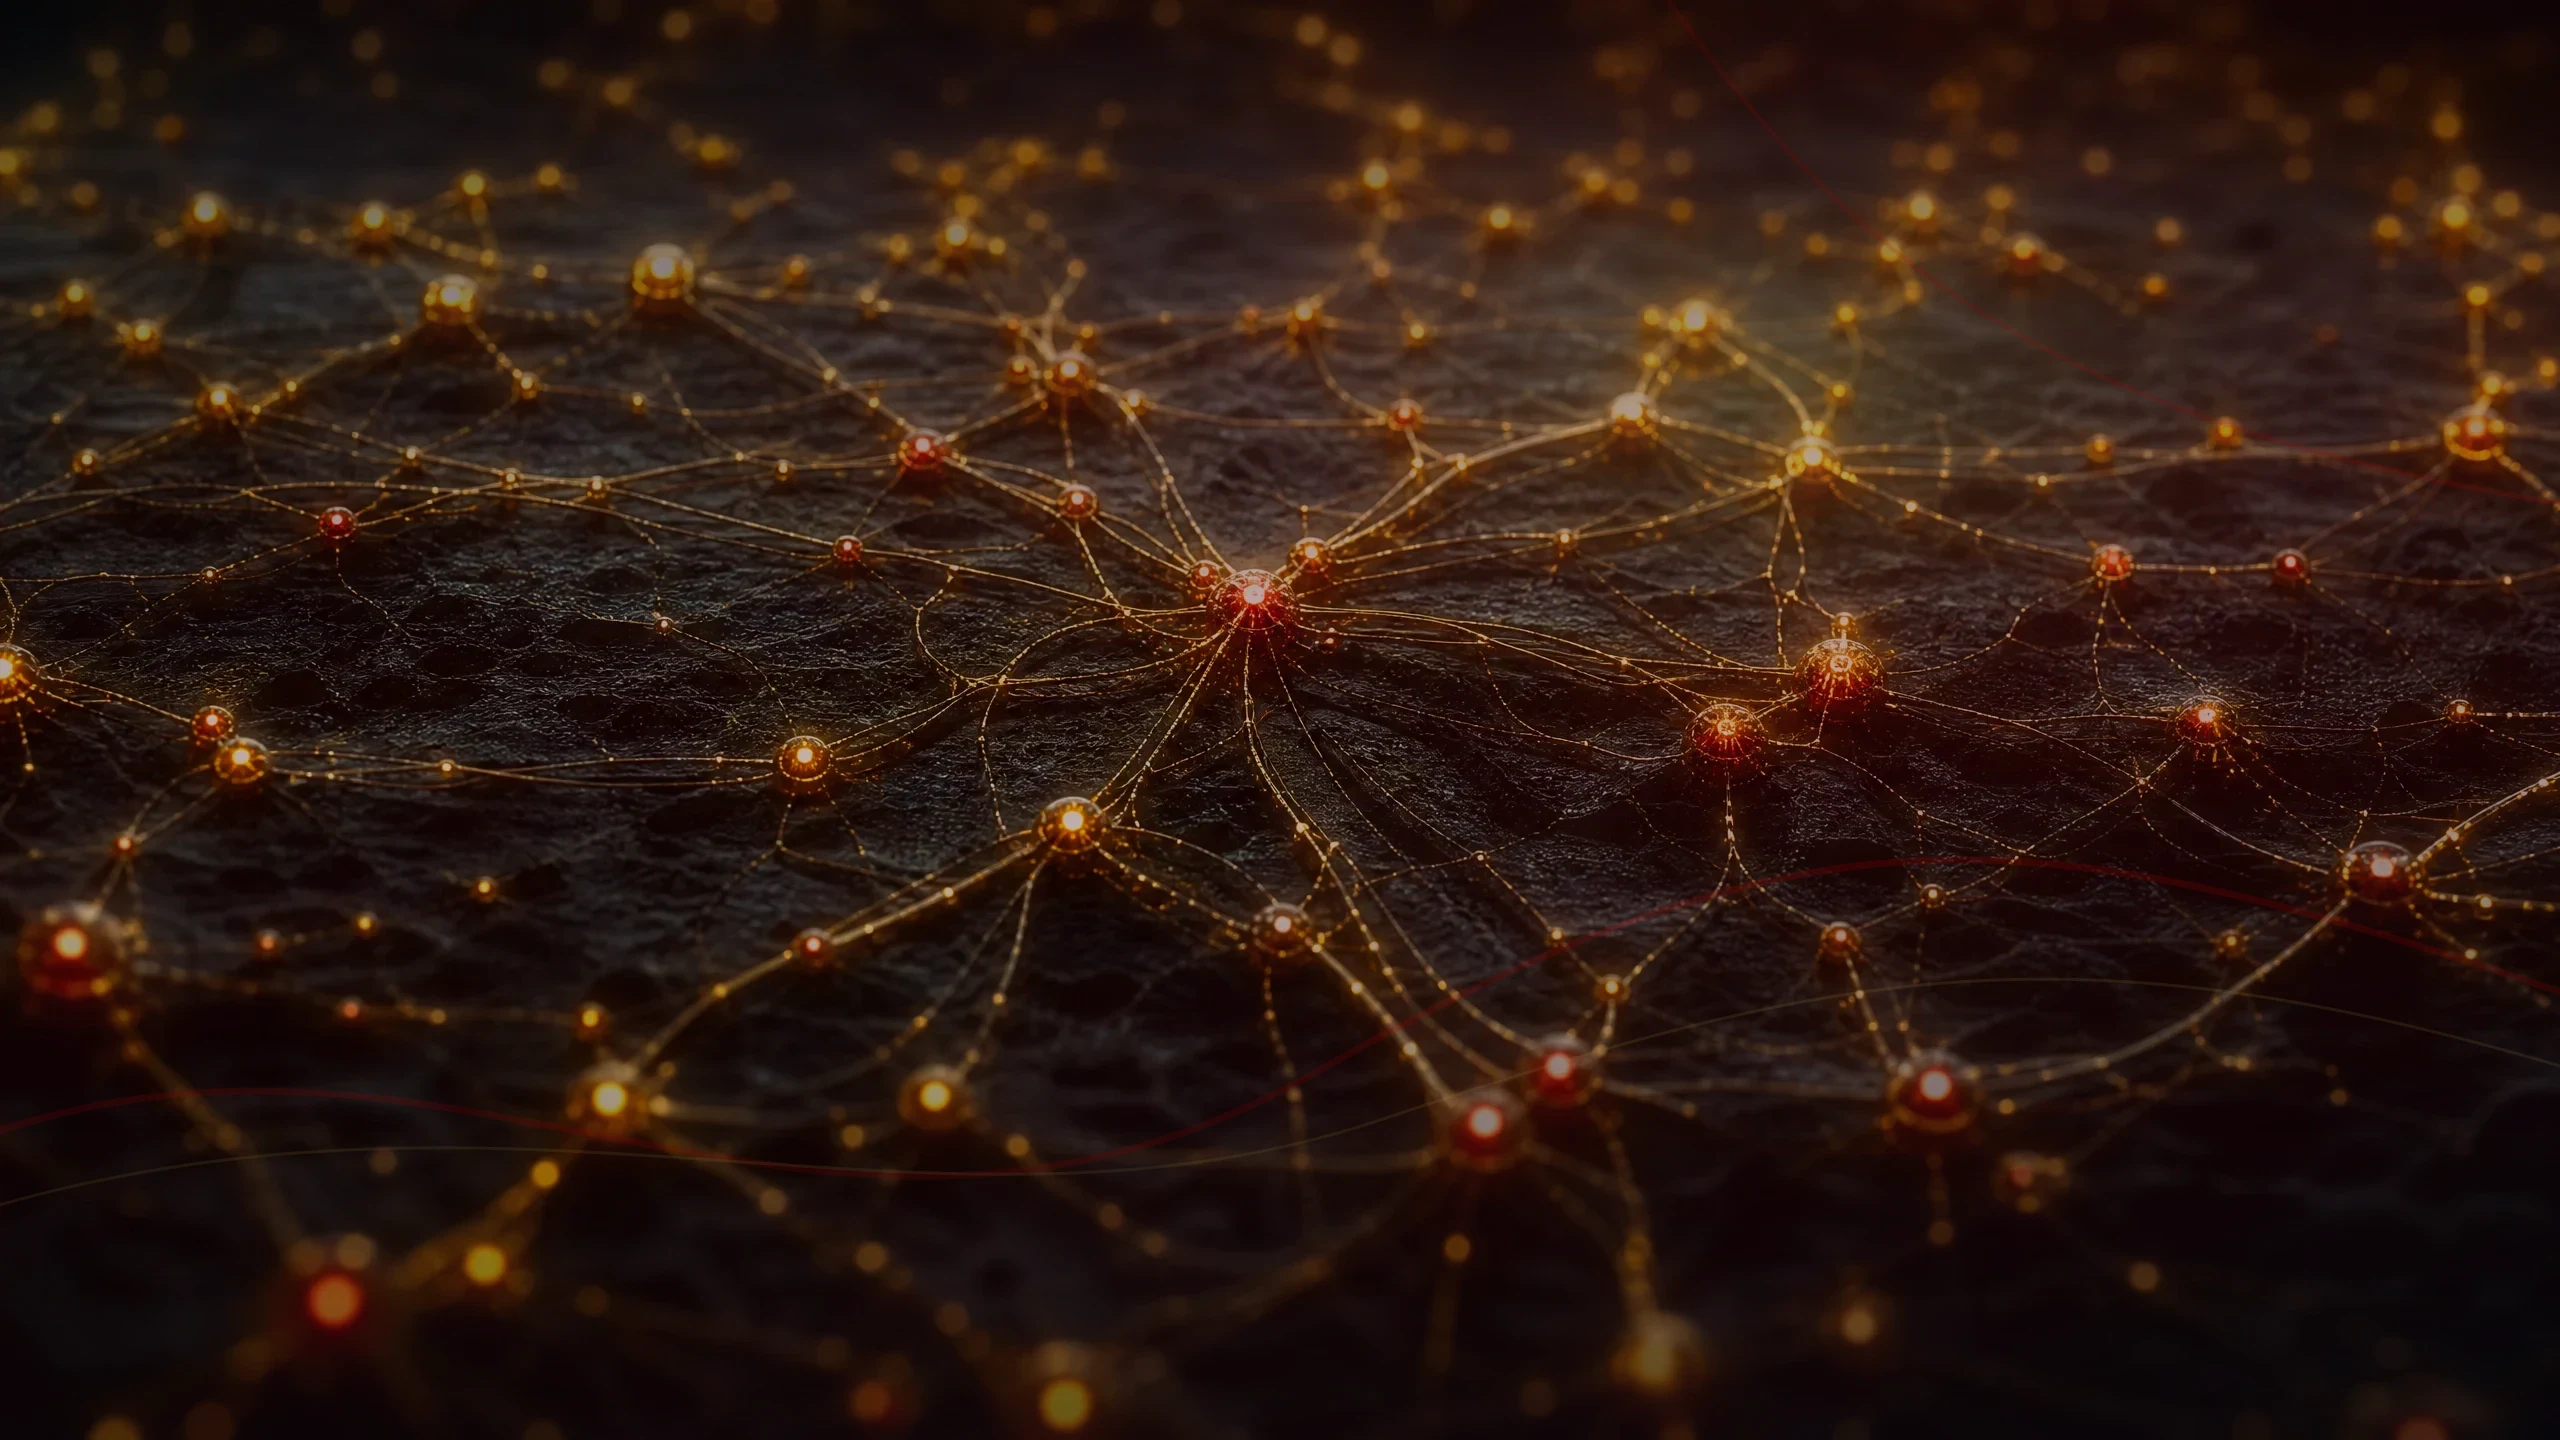
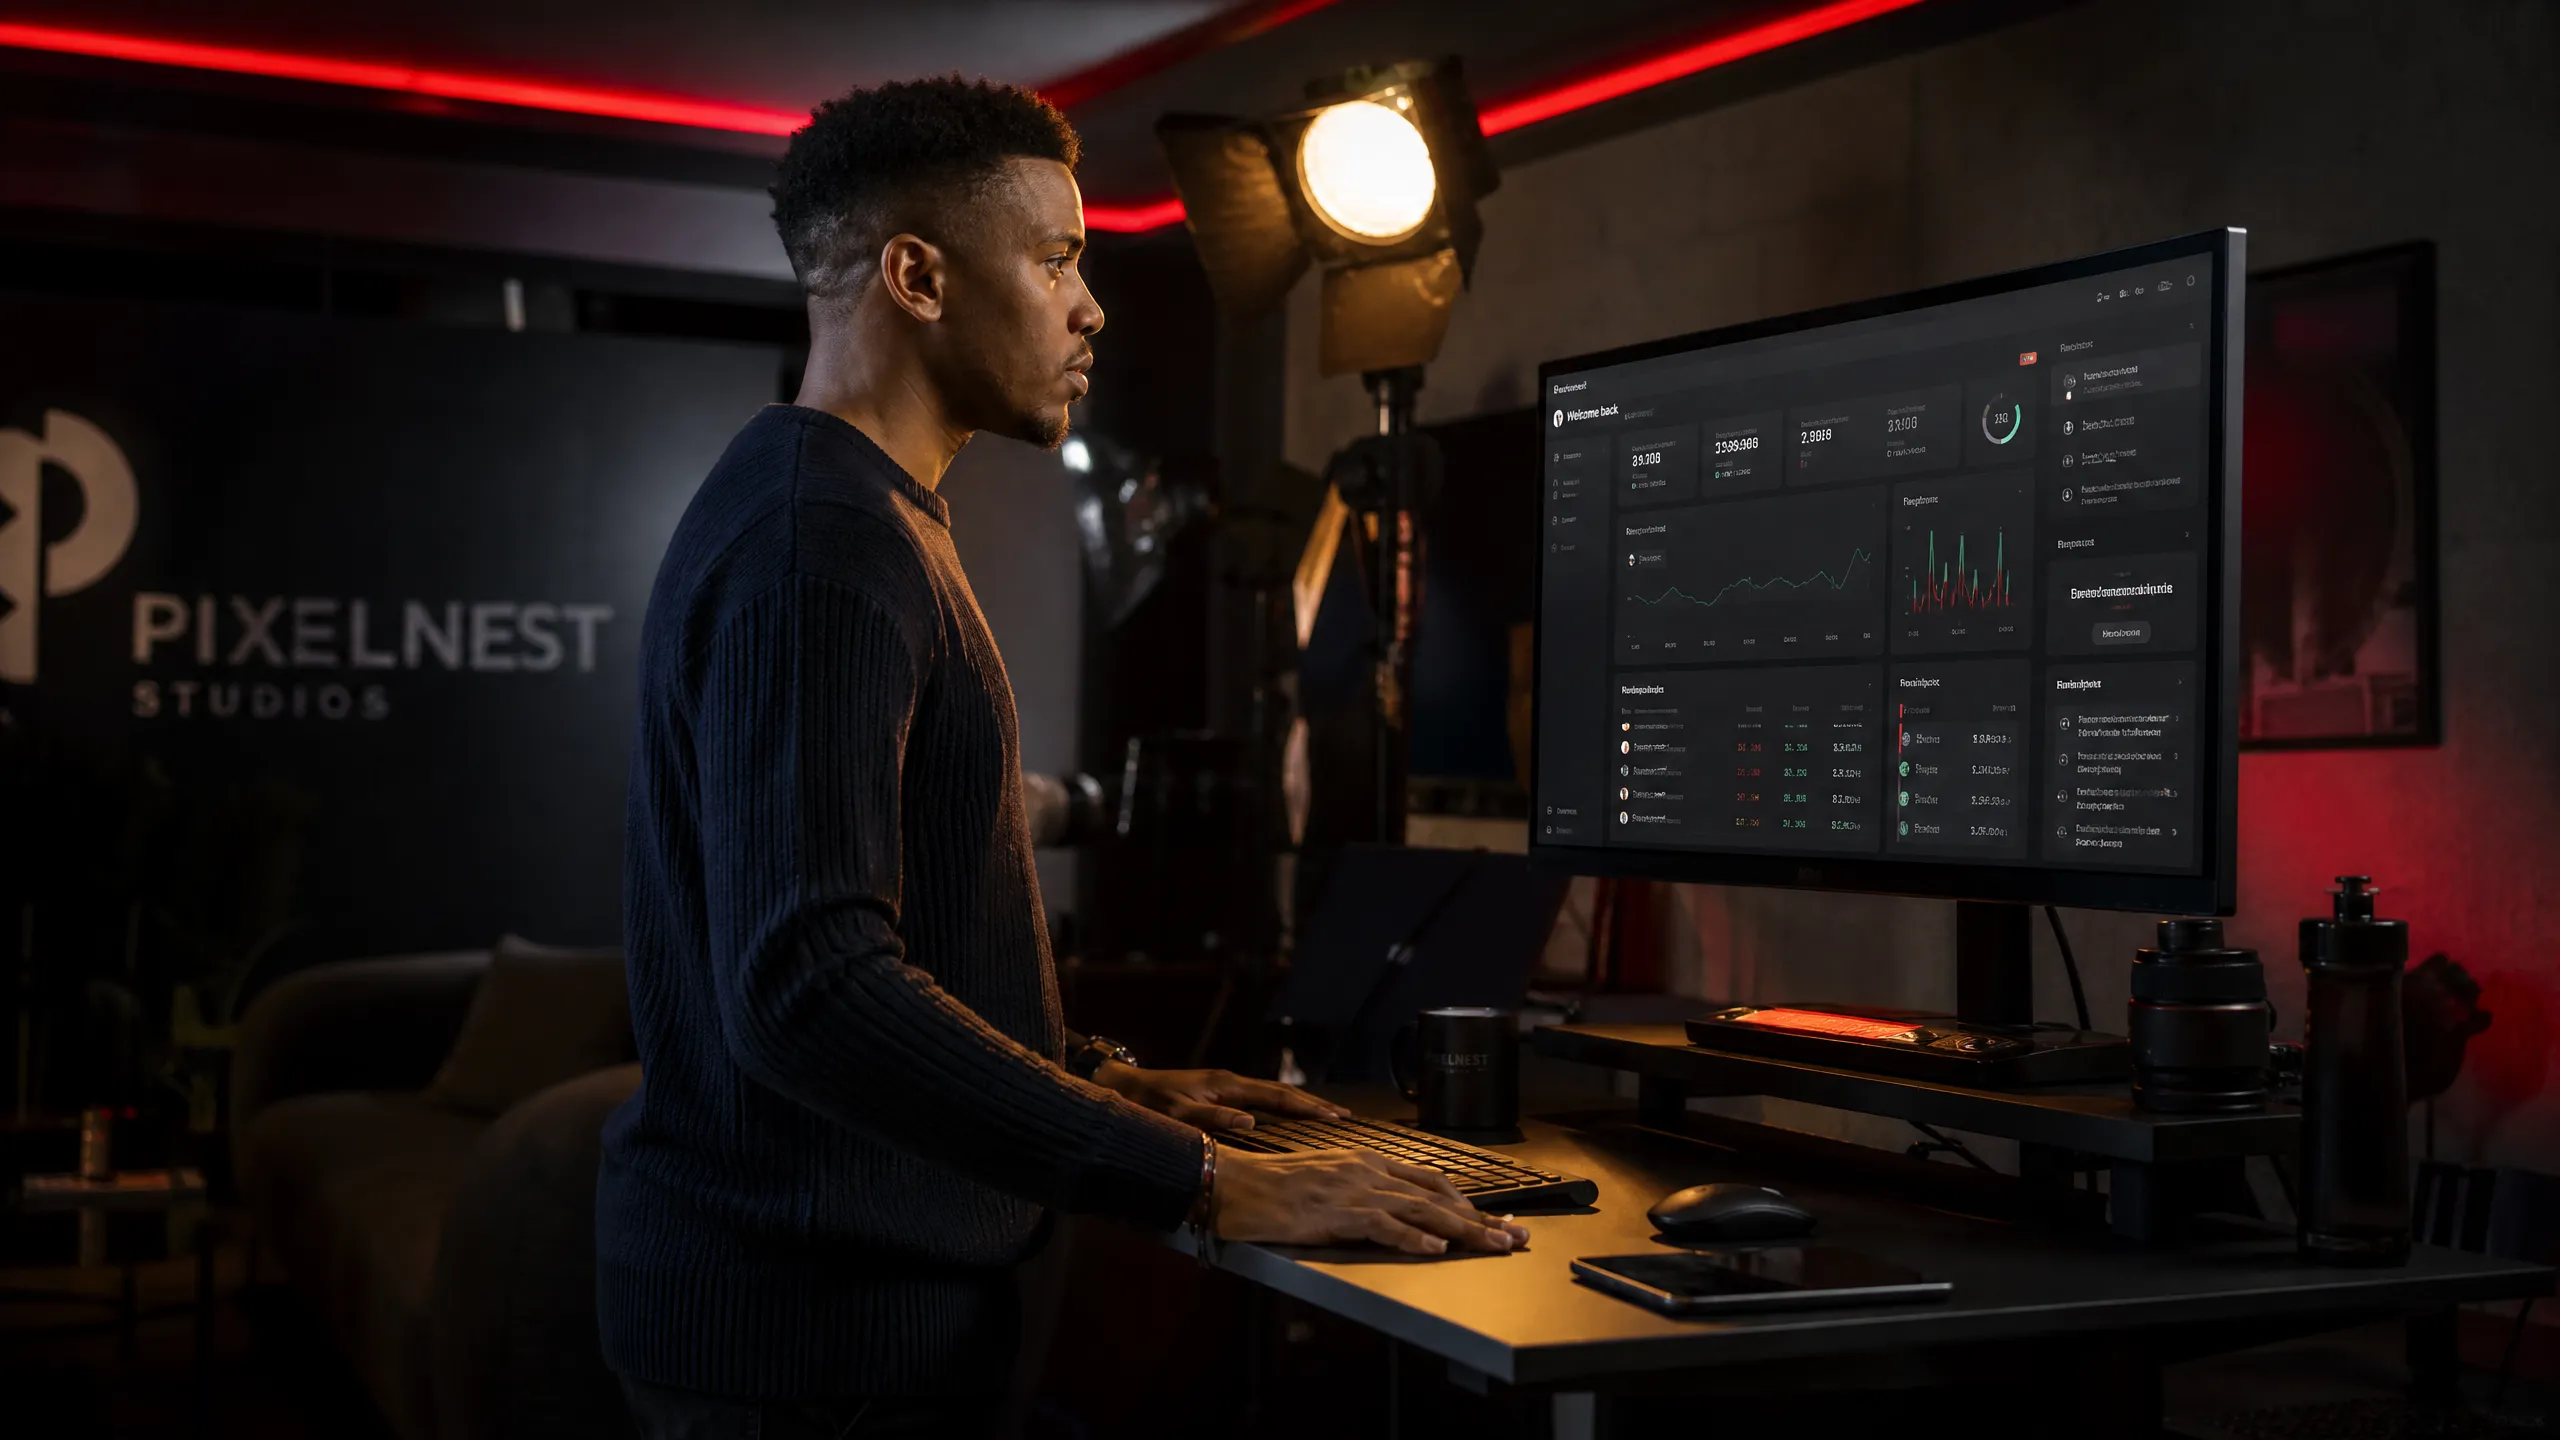
Replace abstract AI visuals with dashboard imagery

diff --git a/src/app/visibility/seo/page.tsx b/src/app/visibility/seo/page.tsx
@@ -21,8 +21,8 @@ export default function Page() {
         eyebrow="7 · Visibility Pillar"
         title="Found by search engines today. Found by AI engines tomorrow. Both, deliberately."
         subtitle="Traditional SEO and Generative Engine Optimisation (AI SEO) are no longer alternatives. They are two halves of the same discovery surface."
-        imageSrc="/images/ai/v3/visibility/seo-hero.webp"
-        imageAlt="Radial knowledge graph or network visualization in gold light"
+        imageSrc="/images/ai/visibility-seo/technical-audit-screen.webp"
+        imageAlt="Photorealistic SEO and AI search audit dashboard on a professional monitor"
       />
 
       <FilmstripDivider />
@@ -56,9 +56,9 @@ export default function Page() {
           }
           right={
             <ImagePlaceholder
-              src="/images/ai/v3/visibility/seo-hero.webp"
-              alt="Traditional SEO"
-              brief="Google search results macro on a professional monitor in a cinematic office setting, warm gold and deep red lighting, photorealistic, textless."
+              src="/images/ai/visibility-seo/content-strategy-desk.webp"
+              alt="Traditional SEO analytics dashboard"
+              brief="Photorealistic search visibility dashboard on a laptop in a cinematic strategy office, warm red and gold lighting."
               orientation="landscape"
             />
           }
@@ -76,9 +76,9 @@ export default function Page() {
                 <Reveal>
                   <div className="mt-10">
                     <ImagePlaceholder
-                      src="/images/ai/v3/visibility/seo-hero.webp"
-                      alt="SEO strategy and implementation"
-                      brief="SEO strategy and implementation"
+                      src="/images/ai/visibility-seo/technical-audit-screen.webp"
+                      alt="SEO technical audit dashboard"
+                      brief="Photorealistic technical SEO audit dashboard on a large monitor with status indicators and performance metrics."
                       orientation="landscape"
                     />
                   </div>
@@ -122,9 +122,9 @@ export default function Page() {
           }
           right={
             <ImagePlaceholder
-              src="/images/ai/v3/growth/agentic-ai-hero.webp"
-              alt="AI SEO"
-              brief="A chatbot interface or AI assistant on a high-end screen in a cinematic setting, warm gold and deep red tones, photorealistic, textless."
+              src="/images/ai/smart-tools/tools-hero-professional.webp"
+              alt="AI SEO operations dashboard"
+              brief="Photorealistic AI operations dashboard on a computer screen, showing search intelligence, content workflow metrics, and campaign status."
               orientation="landscape"
             />
           }

diff --git a/src/app/page.tsx b/src/app/page.tsx
@@ -199,9 +199,9 @@ export default async function HomePage() {
             <Link href="/visibility/calendar" className="group space-y-4">
               <div className="aspect-[4/5] overflow-hidden relative">
                 <ImagePlaceholder
-                  src="/images/ai/v3/visibility/calendar-hero.webp"
+                  src="/images/ai/visibility-calendar/filming-schedule-monitor.webp"
                   alt="Visibility"
-                  brief="Abstract four-phase timeline in gold light"
+                  brief="Photorealistic 12-month strategy timeline dashboard on a professional monitor"
                   orientation="landscape"
                   className="group-hover:scale-105 transition-transform duration-700"
                 />
@@ -213,9 +213,9 @@ export default async function HomePage() {
             <Link href="/growth/agentic-ai" className="group space-y-4">
               <div className="aspect-[4/5] overflow-hidden relative">
                 <ImagePlaceholder
-                  src="/images/ai/v3/growth/agentic-ai-hero.webp"
+                  src="/images/ai/smart-tools/tools-hero-professional.webp"
                   alt="Growth"
-                  brief="Abstract orbital AI system"
+                  brief="Photorealistic AI workflow dashboard on a professional computer screen"
                   orientation="landscape"
                   className="group-hover:scale-105 transition-transform duration-700"
                 />
@@ -245,9 +245,9 @@ export default async function HomePage() {
       <section className="relative py-32 overflow-hidden">
         <div className="absolute inset-0 z-0">
           <ImagePlaceholder
-            src="/images/ai/safa-ai-hero.png"
-              alt="SA Film Interns Talent Portal"
-            brief="Young Black creative professional using a laptop"
+            src="/images/ai/smart-tools/profile-cards-screen.webp"
+            alt="SA Film Interns Talent Portal"
+            brief="Photorealistic talent portal dashboard with profile cards on a professional computer monitor"
             orientation="video"
             className="w-full h-full opacity-40"
           />

diff --git a/src/app/growth/agentic-ai/page.tsx b/src/app/growth/agentic-ai/page.tsx
@@ -21,8 +21,8 @@ export default function Page() {
         eyebrow="6 · Growth Pillar"
         title="Not an aspiration. A set of concrete, running, weekly automated workflows."
         subtitle="Five autonomous agents that operate without human initiation, turning the Academy's capacity constraint into its largest competitive advantage."
-        imageSrc="/images/ai/v3/growth/agentic-ai-hero.webp"
-        imageAlt="Abstract orbital AI system or neural network in gold and blue"
+        imageSrc="/images/ai/smart-tools/tools-hero-professional.webp"
+        imageAlt="Photorealistic AI workflow dashboard on a professional computer screen"
       />
 
       <FilmstripDivider />
@@ -51,9 +51,9 @@ export default function Page() {
                 <Reveal>
                   <div className="mt-10">
                     <ImagePlaceholder
-                      src="/images/ai/v3/growth/agentic-ai-hero.webp"
-                      alt="Agentic AI engine and automation"
-                      brief="Agentic AI engine and automation"
+                      src="/images/ai/smart-tools/tools-hero-professional.webp"
+                      alt="Agentic AI engine dashboard"
+                      brief="Photorealistic workflow automation dashboard on a professional monitor with campaign metrics and status panels."
                       orientation="landscape"
                     />
                   </div>

diff --git a/src/app/visibility/calendar/page.tsx b/src/app/visibility/calendar/page.tsx
@@ -22,8 +22,8 @@ export default function Page() {
         eyebrow="5 · Visibility Pillar"
         title="The 12-Month Marketing Calendar"
         subtitle="June 2026 to May 2027: four quarters, four phases, every milestone visible."
-        imageSrc="/images/ai/v3/visibility/calendar-hero.webp"
-        imageAlt="Dark reddish-cinematic film production environment"
+        imageSrc="/images/ai/visibility-calendar/filming-schedule-monitor.webp"
+        imageAlt="Photorealistic 12-month strategy dashboard on a professional monitor"
       />
 
       <FilmstripDivider />

diff --git a/src/app/visibility/page.tsx b/src/app/visibility/page.tsx
@@ -16,13 +16,13 @@ const SUB_PAGES = [
     title: '12-Month Calendar',
     href: '/visibility/calendar',
     description: 'A phased roadmap for foundation, visibility, authority, and scale.',
-    image: '/images/ai/v3/visibility/calendar-hero.webp'
+    image: '/images/ai/visibility-calendar/filming-schedule-monitor.webp'
   },
   {
     title: 'SEO & AI SEO',
     href: '/visibility/seo',
     description: 'Optimising for the search engines of today and the AI engines of tomorrow.',
-    image: '/images/ai/v3/visibility/seo-hero.webp'
+    image: '/images/ai/visibility-seo/technical-audit-screen.webp'
   },
   {
     title: 'Institutional Voice',

diff --git a/src/app/growth/page.tsx b/src/app/growth/page.tsx
@@ -16,7 +16,7 @@ const SUB_PAGES = [
     title: 'Agentic AI Engine',
     href: '/growth/agentic-ai',
     description: 'Five autonomous workflows driving a weekly marketing cadence.',
-    image: '/images/ai/v3/growth/agentic-ai-hero.webp'
+    image: '/images/ai/smart-tools/tools-hero-professional.webp'
   },
   {
     title: 'B-BBEE & Skills Levy',